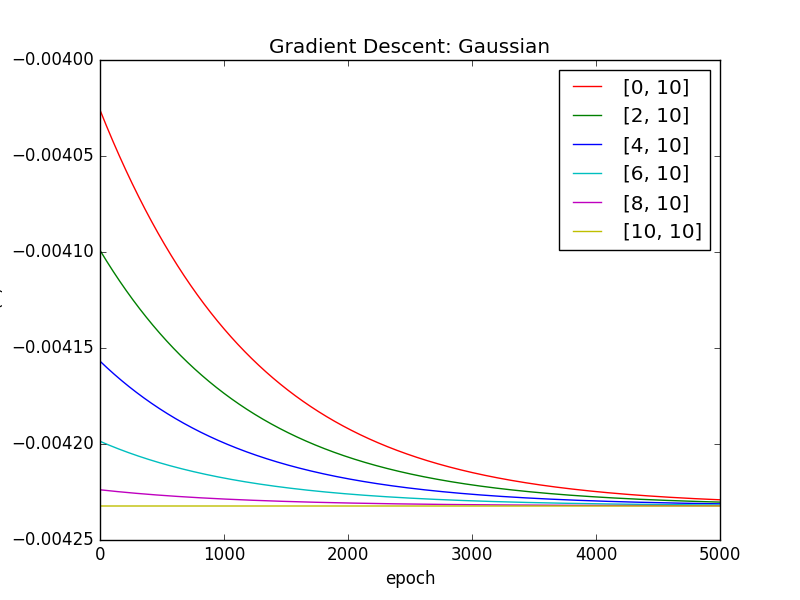
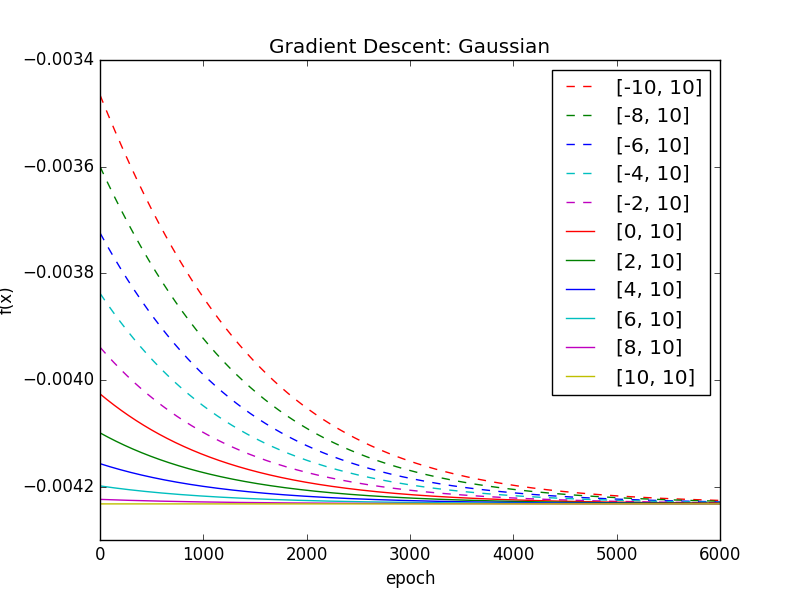
Figures 2 & 3

diff --git a/P1/figure2.py b/P1/figure2.py
@@ -7,11 +7,13 @@ from matplotlib import pyplot as plt
 def grad_desc(func, d_func, init=np.zeros(2)):
     x = init
     values = []
-    for epoch in range(0,6000):
+    epoch = 0
+    while True:
+        epoch += 1
         x -= 100 * d_func(x)
         values += [func(x)]
-    print(x)
-    return values
+        if np.linalg.norm(d_func(x)) < 0.00001:
+            return epoch
 
 gaussMean,gaussCov,quadBowlA,quadBowlb = loadParametersP1.getData()
 def gfunc(x):
@@ -35,11 +37,17 @@ def ad_qfunc(x):
     return np.array(result)
 
 pairs = [
-    (np.array([-10.0,10.0]), 'r--'),
-    (np.array([-8.0,10.0]), 'g--'),
-    (np.array([-6.0,10.0]), 'b--'),
-    (np.array([-4.0,10.0]), 'c--'),
-    (np.array([-2.0,10.0]), 'm--'),
+    (np.array([-70.0,10.0]), 'r-'),
+    (np.array([-60.0,10.0]), 'r-'),
+    (np.array([-50.0,10.0]), 'r-'),
+    (np.array([-40.0,10.0]), 'r-'),
+    (np.array([-30.0,10.0]), 'r-'),
+    (np.array([-20.0,10.0]), 'r-'),
+    (np.array([-10.0,10.0]), 'r-'),
+    (np.array([-8.0,10.0]), 'r-'),
+    (np.array([-6.0,10.0]), 'r-'),
+    (np.array([-4.0,10.0]), 'r-'),
+    (np.array([-2.0,10.0]), 'r-'),
     (np.array([0.0,10.0]), 'r-'),
     (np.array([2.0,10.0]), 'g-'),
     (np.array([4.0,10.0]), 'b-'),
@@ -48,14 +56,13 @@ pairs = [
     (np.array([10.0,10.0]), 'y-')
 ]
 
-handles = []
-for pair in pairs:
+y_values = []
+for pair in pairs[::-1]:
     init, color = pair
     val = str(list(map(int, init)))
-    y_values = grad_desc(gfunc, d_gfunc, init=init)
-    handles += [plt.plot(y_values, color, label=val)[0]]
-plt.legend(handles=handles)
+    y_values += [grad_desc(gfunc, d_gfunc, init=init)]
+plt.plot([0, 2, 4, 6, 8, 10, 12, 14, 16, 18, 20, 30, 40, 50, 60, 70, 80], y_values, 'b-', label=val)
 plt.title('Gradient Descent: Gaussian')
-plt.xlabel('epoch')
-plt.ylabel('f(x)')
+plt.xlabel('distance')
+plt.ylabel('# epochs')
 plt.show()

diff --git a/P1/figure3.py b/P1/figure3.py
@@ -7,9 +7,9 @@ from matplotlib import pyplot as plt
 def grad_desc(func, d_func, init=np.zeros(2)):
     x = init
     values = []
-    for epoch in range(0,6000):
+    for epoch in range(0,50000):
         x -= 100 * d_func(x)
-        values += [func(x)]
+        values += [np.linalg.norm(d_func(x))]
     print(x)
     return values
 
@@ -35,16 +35,10 @@ def ad_qfunc(x):
     return np.array(result)
 
 pairs = [
-    (np.array([-10.0,10.0]), 'r--'),
-    (np.array([-8.0,10.0]), 'g--'),
-    (np.array([-6.0,10.0]), 'b--'),
-    (np.array([-4.0,10.0]), 'c--'),
-    (np.array([-2.0,10.0]), 'm--'),
-    (np.array([0.0,10.0]), 'r-'),
-    (np.array([2.0,10.0]), 'g-'),
-    (np.array([4.0,10.0]), 'b-'),
-    (np.array([6.0,10.0]), 'c-'),
-    (np.array([8.0,10.0]), 'm-'),
+    (np.array([-40.0,10.0]), 'g-'),
+    (np.array([-20.0,10.0]), 'b-'),
+    (np.array([-10.0,10.0]), 'c-'),
+    (np.array([0.0,10.0]), 'm-'),
     (np.array([10.0,10.0]), 'y-')
 ]
 
@@ -57,5 +51,5 @@ for pair in pairs:
 plt.legend(handles=handles)
 plt.title('Gradient Descent: Gaussian')
 plt.xlabel('epoch')
-plt.ylabel('f(x)')
+plt.ylabel('norm of gradient')
 plt.show()

diff --git a/P1/thing.py b/P1/thing.py
@@ -1,0 +1,30 @@
+import math
+import random
+import numpy as np
+import loadParametersP1
+from matplotlib import pyplot as plt
+
+def gradient_descent(func, d_func, init=np.zeros(2)):
+    x = init
+    values = []
+    for epoch in range(0,5000):
+        x -= 100 * d_func(x)
+        values += [func(x)]
+    return values
+
+gaussianMean, gaussianCovariance, _, _ = loadParametersP1.getData()
+def gfunc(x):
+    diff = (x - gaussianMean)
+    icov = np.linalg.inv(gaussianCovariance)
+    norm = - 1.0 / math.sqrt((2 * 3.1415)**len(gaussianMean) * np.linalg.norm(gaussianCovariance))
+    return norm * np.exp(- 0.5 * diff.transpose().dot(icov.dot(diff)))
+def d_gfunc(x):
+    diff = (x - gaussianMean)
+    icov = np.linalg.inv(gaussianCovariance)
+    return -gfunc(x) * icov.dot(diff)
+
+values = gradient_descent(gfunc, d_gfunc)
+plt.plot(values, 'b-')
+plt.xlabel('epoch')
+plt.ylabel('f(x)')
+plt.show()
